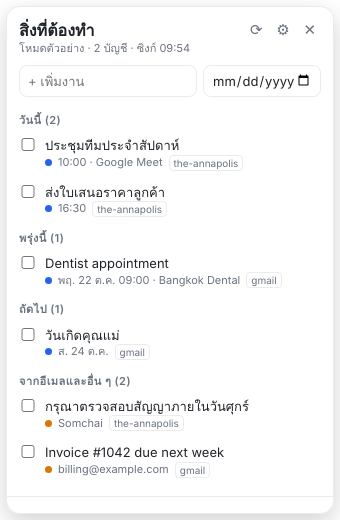
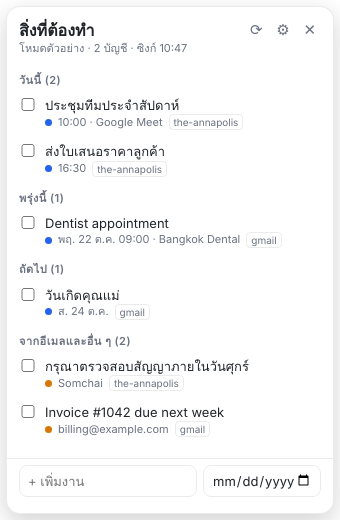
Move the add-task field to the bottom of the widget; bump to 0.1.2
Claude-Session: https://claude.ai/code/session_01XCqEcwZW9P8VCiXxRXhFHq

diff --git a/src/renderer/index.html b/src/renderer/index.html
@@ -50,14 +50,13 @@
       </div>
     </section>
 
-    <form id="add" class="no-drag">
-      <input id="add-title" type="text" placeholder="+ เพิ่มงาน" autocomplete="off">
-      <input id="add-due" type="date" title="วันครบกำหนด">
-    </form>
-
     <main id="list"></main>
 
     <footer>
+      <form id="add" class="no-drag">
+        <input id="add-title" type="text" placeholder="+ เพิ่มงาน" autocomplete="off">
+        <input id="add-due" type="date" title="วันครบกำหนด">
+      </form>
       <button id="btn-clear" class="link">ล้างงานที่เสร็จแล้ว</button>
     </footer>
   </div>

diff --git a/src/renderer/style.css b/src/renderer/style.css
@@ -89,7 +89,7 @@ button.primary {
   border-radius: 8px; padding: 6px 12px; font: inherit; cursor: pointer;
 }
 
-#add { display: flex; gap: 6px; padding: 0 12px 8px; }
+#add { display: flex; gap: 6px; padding-bottom: 6px; }
 #add-title { flex: 1; min-width: 0; }
 #add-due { width: 118px; }
 

diff --git a/README.md b/README.md
@@ -19,7 +19,7 @@ A small always-on-top desktop widget (Electron) that turns Google Calendar event
 
 ## ติดตั้งบน Windows / Install on Windows
 
-1. ดับเบิลคลิก `To-do Widget Setup 0.1.1.exe` (ถ้า Windows ขึ้นหน้าจอ SmartScreen เพราะตัวติดตั้งยังไม่ได้ลงลายเซ็น ให้กด **More info → Run anyway**)
+1. ดับเบิลคลิก `To-do Widget Setup 0.1.2.exe` (ถ้า Windows ขึ้นหน้าจอ SmartScreen เพราะตัวติดตั้งยังไม่ได้ลงลายเซ็น ให้กด **More info → Run anyway**)
 2. วิดเจ็ตจะเปิดที่มุมขวาบนของจอ และเปิดเองทุกครั้งที่เข้าเครื่อง (ปิดได้ใน ⚙)
 3. กด **เลือกไฟล์ credentials.json…** แล้วเลือกไฟล์ที่ดาวน์โหลดจาก Google Cloud (ดูหัวข้อด้านล่าง)
 4. กดเข้าสู่ระบบทีละบัญชี
